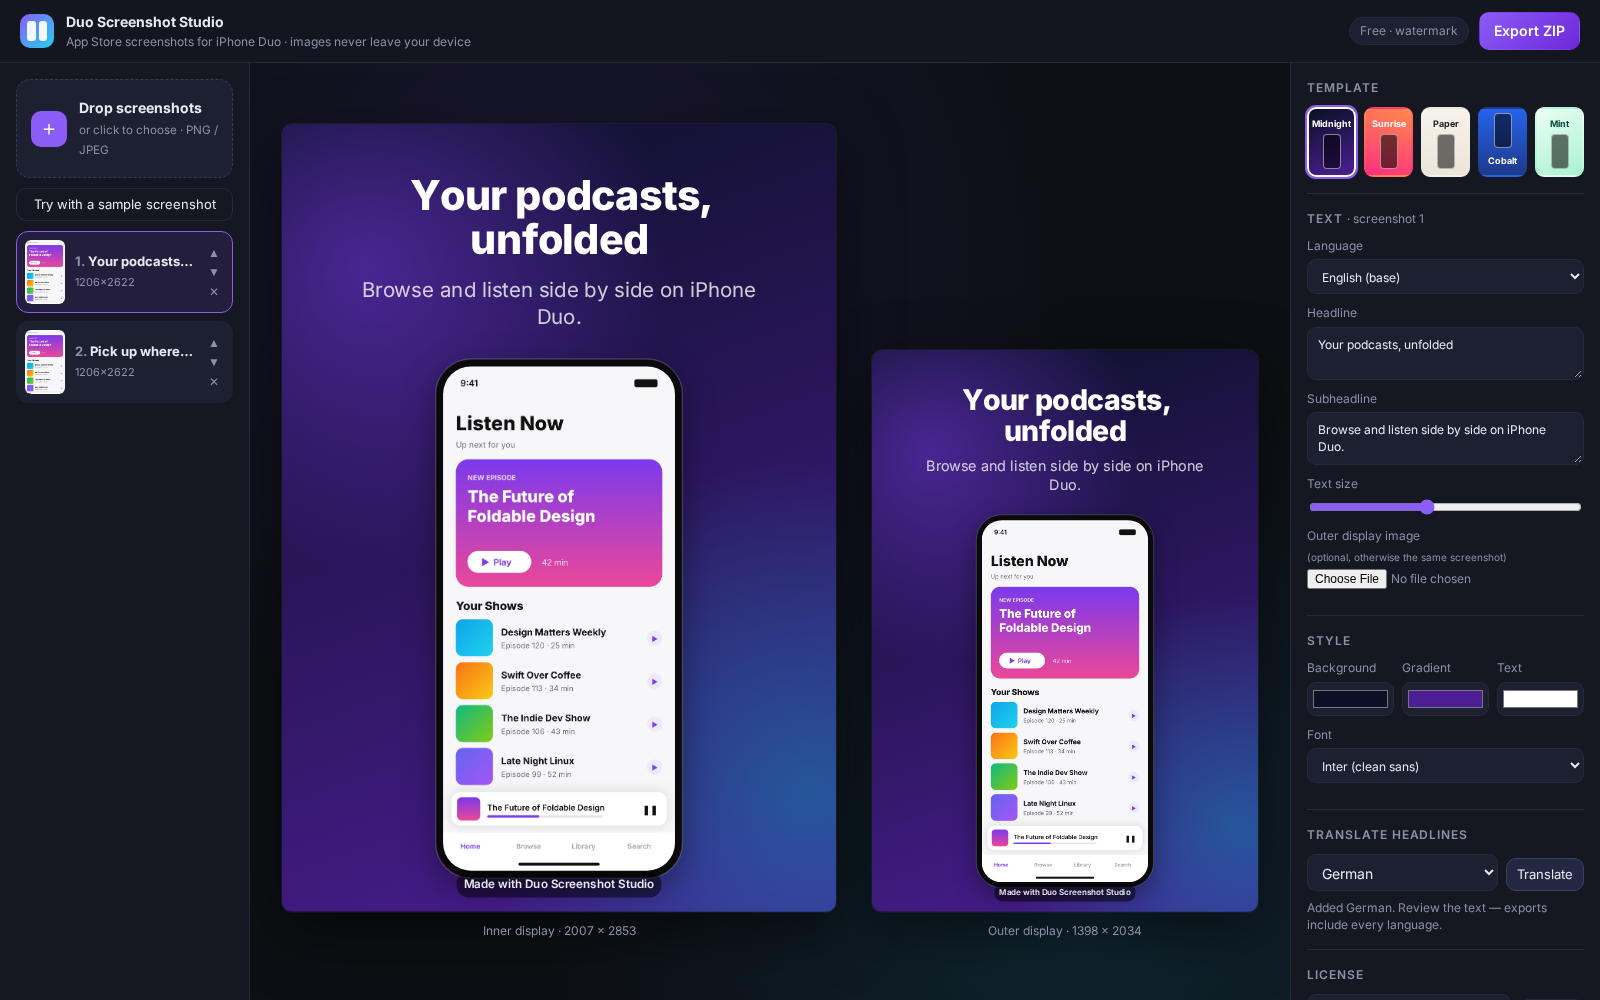
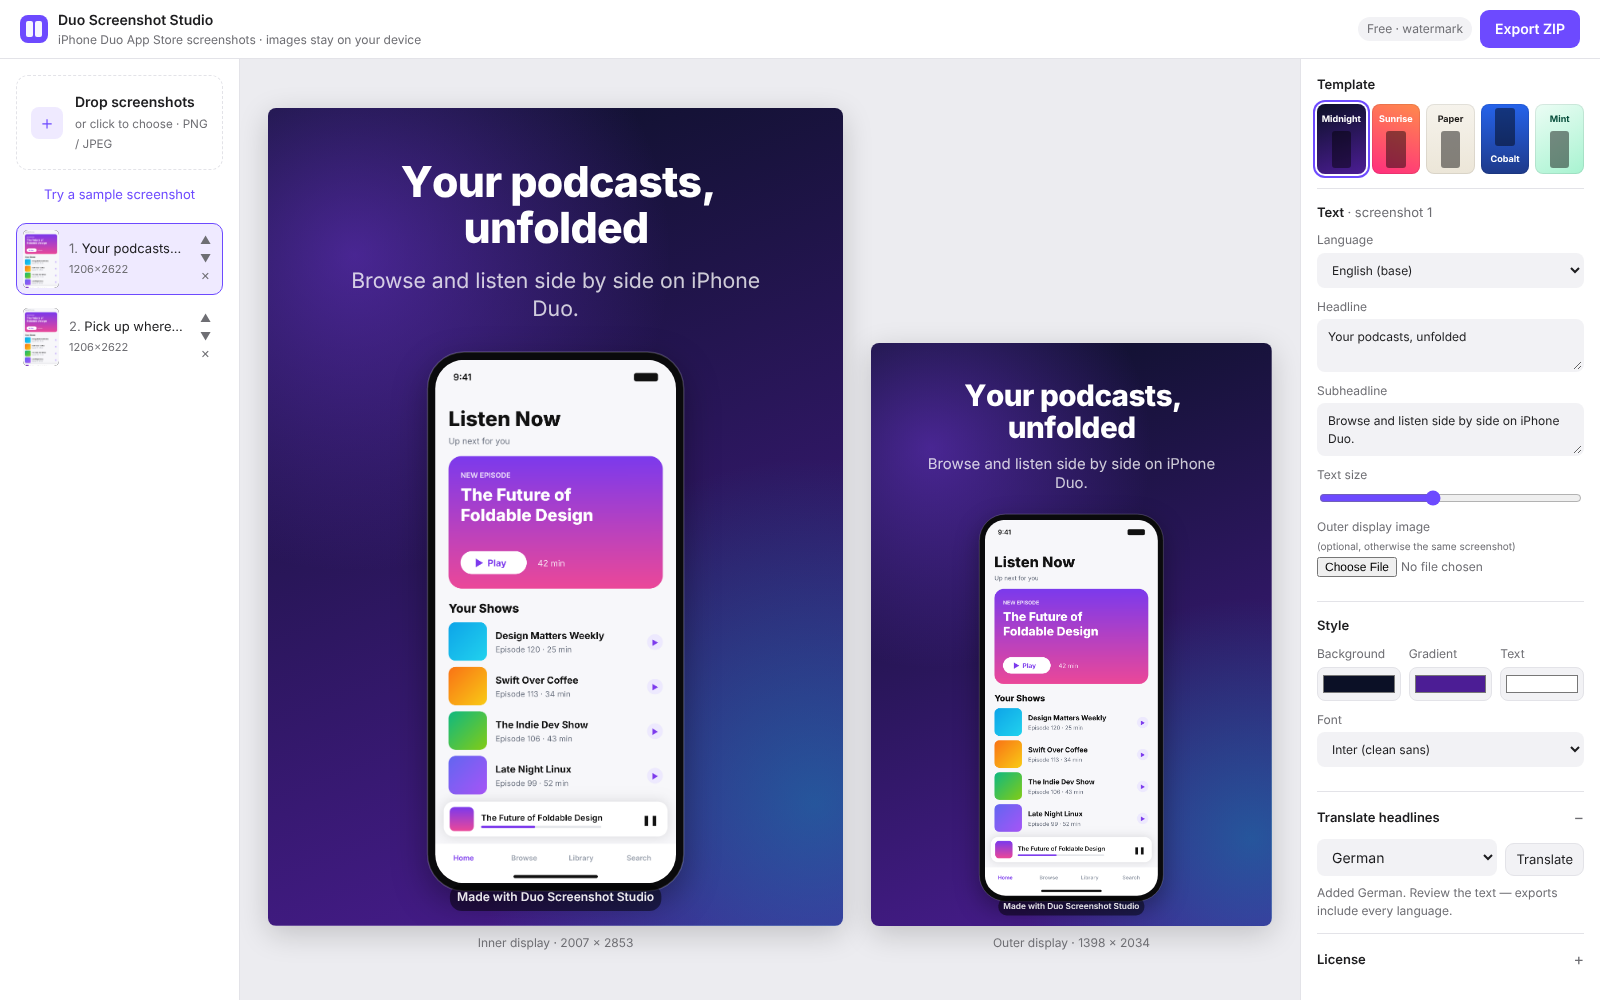
Simplify the editor design and make it work on phones
Neutral light and dark theme, collapsible Translate and License sections,
and a single-column layout under 860px with the preview first and a
horizontal screenshot strip. Preview scaling now accounts for padding
and caps by viewport height on narrow screens.

Claude-Session: https://claude.ai/code/session_01H7PwmSLKKAW7yVJq9DXEp8

diff --git a/src/styles.css b/src/styles.css
@@ -14,88 +14,133 @@
 @font-face { font-family: 'DM Serif Display'; font-weight: 400; font-display: block; src: url(../vendor/fonts/dm-serif-display-latin-ext-400-normal.woff2) format('woff2'); unicode-range: U+0100-02BA, U+02BD-02C5, U+02C7-02CC, U+02CE-02D7, U+02DD-02FF, U+0304, U+0308, U+0329, U+1D00-1DBF, U+1E00-1E9F, U+1EF2-1EFF, U+2020, U+20A0-20AB, U+20AD-20C0, U+2113, U+2C60-2C7F, U+A720-A7FF; }
 
 :root {
-  --bg: #0d0f14; --panel: #151821; --panel-2: #1c2030; --line: #262b3b;
-  --text: #e8eaf2; --muted: #8b91a7; --accent: #8b5cf6; --accent-2: #22d3ee;
-  --radius: 14px;
+  --bg: #f5f5f7; --panel: #ffffff; --field: #f2f2f5; --line: #e3e3e8;
+  --text: #1d1d1f; --muted: #6e6e73; --accent: #6d4aff; --accent-soft: #efeaff; --on-accent: #fff;
+  --stage: #ececf0; --radius: 12px;
+}
+@media (prefers-color-scheme: dark) {
+  :root {
+    --bg: #111113; --panel: #1a1a1d; --field: #242428; --line: #2e2e33;
+    --text: #f2f2f4; --muted: #9a9aa2; --accent: #8b6dff; --accent-soft: #2a2440; --on-accent: #fff;
+    --stage: #0b0b0d;
+  }
 }
 * { box-sizing: border-box; }
 html, body { margin: 0; height: 100%; }
-body { background: var(--bg); color: var(--text); font: 14px/1.45 Inter, -apple-system, system-ui, sans-serif; display: flex; flex-direction: column; }
+body { background: var(--bg); color: var(--text); font: 14px/1.45 Inter, -apple-system, system-ui, sans-serif; display: flex; flex-direction: column; -webkit-text-size-adjust: 100%; }
 button, input, select, textarea { font: inherit; color: inherit; }
+:focus-visible { outline: 2px solid var(--accent); outline-offset: 2px; }
 
-.topbar { display: flex; align-items: center; justify-content: space-between; padding: 12px 20px; border-bottom: 1px solid var(--line); background: rgba(21,24,33,.8); backdrop-filter: blur(10px); }
-.brand { display: flex; gap: 12px; align-items: center; }
+/* Top bar */
+.topbar { display: flex; align-items: center; justify-content: space-between; gap: 12px; padding: 10px 20px; padding-top: max(10px, env(safe-area-inset-top)); border-bottom: 1px solid var(--line); background: var(--panel); }
+.brand { display: flex; gap: 10px; align-items: center; min-width: 0; }
+.brand strong { font-weight: 600; }
 .brand small { display: block; color: var(--muted); font-size: 12px; }
-.logo { width: 34px; height: 34px; border-radius: 10px; background: linear-gradient(135deg, var(--accent), var(--accent-2)); display: grid; grid-template-columns: 1fr 1fr; gap: 3px; padding: 7px; }
-.logo i { background: rgba(255,255,255,.92); border-radius: 3px; }
-.topbar-actions { display: flex; gap: 10px; align-items: center; }
-.badge { font-size: 12px; padding: 4px 10px; border-radius: 999px; background: var(--panel-2); color: var(--muted); border: 1px solid var(--line); }
-.badge.pro { color: #0d0f14; background: linear-gradient(135deg, #a7f3d0, #67e8f9); border-color: transparent; font-weight: 600; }
+.logo { width: 28px; height: 28px; border-radius: 8px; background: var(--accent); display: grid; grid-template-columns: 1fr 1fr; gap: 2px; padding: 6px; flex: none; }
+.logo i { background: rgba(255,255,255,.95); border-radius: 2px; }
+.topbar-actions { display: flex; gap: 8px; align-items: center; flex: none; }
+.badge { font-size: 12px; padding: 3px 9px; border-radius: 999px; background: var(--field); color: var(--muted); }
+.badge.pro { color: var(--accent); background: var(--accent-soft); font-weight: 600; }
 
-.btn { border: 1px solid var(--line); background: var(--panel-2); padding: 8px 14px; border-radius: 10px; cursor: pointer; transition: .15s; white-space: nowrap; }
-.btn:hover:not(:disabled) { border-color: #3a4160; background: #232842; }
+/* Buttons */
+.btn { border: 1px solid var(--line); background: var(--panel); padding: 8px 14px; border-radius: 9px; cursor: pointer; white-space: nowrap; transition: background .15s, border-color .15s; }
+.btn:hover:not(:disabled) { background: var(--field); }
 .btn:disabled { opacity: .45; cursor: not-allowed; }
-.btn.primary { background: linear-gradient(135deg, var(--accent), #6d28d9); border-color: transparent; font-weight: 600; color: #fff; }
-.btn.primary:hover:not(:disabled) { filter: brightness(1.1); }
-.btn.ghost { background: transparent; }
+.btn.primary { background: var(--accent); border-color: transparent; color: var(--on-accent); font-weight: 600; }
+.btn.primary:hover:not(:disabled) { background: var(--accent); filter: brightness(1.08); }
+.btn.ghost { border-color: transparent; color: var(--accent); background: transparent; }
+.btn.ghost:hover:not(:disabled) { background: var(--accent-soft); }
 .btn.small { padding: 6px 10px; font-size: 13px; }
 
-.layout { flex: 1; display: grid; grid-template-columns: 250px 1fr 310px; min-height: 0; }
+/* Layout */
+.layout { flex: 1; display: grid; grid-template-columns: 240px 1fr 300px; min-height: 0; }
 .panel { background: var(--panel); padding: 16px; overflow-y: auto; }
-.panel.left { border-right: 1px solid var(--line); display: flex; flex-direction: column; gap: 10px; }
+.panel.left { border-right: 1px solid var(--line); display: flex; flex-direction: column; gap: 8px; }
 .panel.right { border-left: 1px solid var(--line); }
-.panel section { padding-bottom: 16px; margin-bottom: 16px; border-bottom: 1px solid var(--line); }
-.panel section:last-child { border-bottom: 0; }
-h2 { font-size: 12px; text-transform: uppercase; letter-spacing: .08em; color: var(--muted); margin: 0 0 10px; font-weight: 600; }
-.muted { color: var(--muted); font-weight: 400; text-transform: none; letter-spacing: 0; }
+.panel section, .panel details { padding-bottom: 14px; margin-bottom: 14px; border-bottom: 1px solid var(--line); }
+.panel > :last-child { border-bottom: 0; margin-bottom: 0; }
+h2, summary { font-size: 13px; font-weight: 600; margin: 0 0 10px; }
+summary { cursor: pointer; list-style: none; display: flex; justify-content: space-between; align-items: center; margin: 0; }
+summary::-webkit-details-marker { display: none; }
+summary::after { content: '+'; color: var(--muted); font-weight: 400; font-size: 16px; }
+details[open] summary { margin-bottom: 10px; }
+details[open] summary::after { content: '−'; }
+.muted { color: var(--muted); font-weight: 400; }
 .hint { color: var(--muted); font-size: 12px; margin: 8px 0 0; }
-.hint a { color: var(--accent-2); }
+.hint a { color: var(--accent); }
 
-.dropzone { border: 1.5px dashed #343a52; border-radius: var(--radius); padding: 18px 14px; display: flex; gap: 12px; align-items: center; cursor: pointer; background: var(--panel-2); transition: .15s; }
-.dropzone:hover, .dropzone.over { border-color: var(--accent); background: #211d3a; }
-.dz-icon { width: 36px; height: 36px; border-radius: 10px; display: grid; place-items: center; background: var(--accent); color: #fff; font-size: 20px; flex: none; }
+/* Uploads */
+.dropzone { border: 1.5px dashed var(--line); border-radius: var(--radius); padding: 16px 14px; display: flex; gap: 12px; align-items: center; cursor: pointer; transition: .15s; }
+.dropzone:hover, .dropzone.over { border-color: var(--accent); background: var(--accent-soft); }
+.dz-icon { width: 32px; height: 32px; border-radius: 8px; display: grid; place-items: center; background: var(--accent-soft); color: var(--accent); font-size: 18px; flex: none; }
+.dropzone strong { font-weight: 600; }
 .dropzone small { color: var(--muted); }
 
-.shot-list { list-style: none; margin: 0; padding: 0; display: flex; flex-direction: column; gap: 8px; counter-reset: shot; }
-.shot-list li { display: flex; gap: 10px; align-items: center; padding: 8px; border-radius: 12px; border: 1px solid transparent; cursor: pointer; background: var(--panel-2); counter-increment: shot; position: relative; }
-.shot-list li.active { border-color: var(--accent); background: #221e3b; }
-.shot-list img { width: 40px; height: 64px; object-fit: cover; border-radius: 6px; background: #000; flex: none; }
+.shot-list { list-style: none; margin: 4px 0 0; padding: 0; display: flex; flex-direction: column; gap: 6px; counter-reset: shot; }
+.shot-list li { display: flex; gap: 10px; align-items: center; padding: 6px; border-radius: 10px; border: 1px solid transparent; cursor: pointer; counter-increment: shot; }
+.shot-list li:hover { background: var(--field); }
+.shot-list li.active { border-color: var(--accent); background: var(--accent-soft); }
+.shot-list img { width: 36px; height: 58px; object-fit: cover; border-radius: 5px; background: #000; flex: none; }
 .shot-list .meta { flex: 1; min-width: 0; }
-.shot-list .meta b { display: block; font-size: 13px; white-space: nowrap; overflow: hidden; text-overflow: ellipsis; }
+.shot-list .meta b { display: block; font-size: 13px; font-weight: 500; white-space: nowrap; overflow: hidden; text-overflow: ellipsis; }
 .shot-list .meta small { color: var(--muted); font-size: 11px; }
 .shot-list .meta b::before { content: counter(shot) ". "; color: var(--muted); }
-.shot-list .tools { display: flex; flex-direction: column; gap: 2px; }
-.shot-list .tools button { border: 0; background: transparent; color: var(--muted); cursor: pointer; padding: 0 4px; font-size: 12px; }
-.shot-list .tools button:hover { color: var(--text); }
+.shot-list .tools { display: flex; flex-direction: column; }
+.shot-list .tools button { border: 0; background: transparent; color: var(--muted); cursor: pointer; padding: 1px 5px; font-size: 11px; border-radius: 5px; }
+.shot-list .tools button:hover { color: var(--text); background: var(--line); }
 
-.stage-wrap { position: relative; overflow: auto; display: flex; align-items: center; justify-content: center; padding: 28px;
-  background: radial-gradient(circle at 30% 20%, #1a1631 0, transparent 50%), radial-gradient(circle at 80% 90%, #0f2530 0, transparent 45%), var(--bg); }
-.empty { max-width: 460px; text-align: center; color: var(--muted); }
-.empty h1 { color: var(--text); font-size: 28px; letter-spacing: -.02em; margin: 0 0 10px; }
-.previews { display: flex; gap: 36px; align-items: flex-end; }
+/* Stage */
+.stage-wrap { position: relative; overflow: auto; display: flex; align-items: center; justify-content: center; padding: 28px; background: var(--stage); }
+.empty { max-width: 420px; text-align: center; color: var(--muted); }
+.empty h1 { color: var(--text); font-size: 24px; font-weight: 700; letter-spacing: -.02em; margin: 0 0 8px; }
+.previews { display: flex; gap: 28px; align-items: flex-end; }
 .previews[hidden] { display: none; }
-.previews figure { margin: 0; display: flex; flex-direction: column; align-items: center; gap: 10px; }
-.stage { border-radius: 10px; overflow: hidden; box-shadow: 0 20px 60px rgba(0,0,0,.5), 0 0 0 1px rgba(255,255,255,.06); }
-figcaption { color: var(--muted); font-size: 12px; }
+.previews figure { margin: 0; display: flex; flex-direction: column; align-items: center; gap: 8px; }
+.stage { border-radius: 8px; overflow: hidden; box-shadow: 0 8px 30px rgba(0,0,0,.18); }
+figcaption { color: var(--muted); font-size: 12px; text-align: center; white-space: nowrap; }
 
-.template-grid { display: grid; grid-template-columns: repeat(5, 1fr); gap: 8px; }
-.template-grid button { aspect-ratio: .7; border-radius: 9px; border: 2px solid transparent; cursor: pointer; position: relative; padding: 0; overflow: hidden; }
-.template-grid button.active { border-color: #fff; box-shadow: 0 0 0 2px var(--accent); }
-.template-grid button::after { content: ''; position: absolute; left: 30%; right: 30%; top: 38%; bottom: 8%; border-radius: 4px; background: rgba(0,0,0,.55); border: 1.5px solid rgba(255,255,255,.5); }
+/* Controls */
+.template-grid { display: grid; grid-template-columns: repeat(5, 1fr); gap: 6px; }
+.template-grid button { aspect-ratio: .7; border-radius: 8px; border: 0; cursor: pointer; position: relative; padding: 0; overflow: hidden; box-shadow: inset 0 0 0 1px rgba(0,0,0,.08); }
+.template-grid button.active { box-shadow: 0 0 0 2px var(--panel), 0 0 0 4px var(--accent); }
+.template-grid button::after { content: ''; position: absolute; left: 30%; right: 30%; top: 38%; bottom: 8%; border-radius: 3px; background: rgba(0,0,0,.45); }
 .template-grid button span { position: absolute; left: 0; right: 0; top: 12%; font-size: 9px; font-weight: 700; text-align: center; }
 .template-grid button.bottom::after { top: 6%; bottom: 40%; }
 .template-grid button.bottom span { top: auto; bottom: 12%; }
 
-.field { display: flex; flex-direction: column; gap: 5px; margin-bottom: 10px; font-size: 12px; color: var(--muted); }
-.field textarea, .field select, .row input[type=text], .row select { background: var(--panel-2); border: 1px solid var(--line); border-radius: 9px; padding: 8px 10px; color: var(--text); resize: vertical; width: 100%; }
-.field textarea:focus, .row input:focus { outline: none; border-color: var(--accent); }
+.field { display: flex; flex-direction: column; gap: 4px; margin-bottom: 10px; font-size: 12px; color: var(--muted); }
+.field textarea, .field select, .row input[type=text], .row select { background: var(--field); border: 1px solid transparent; border-radius: 8px; padding: 8px 10px; color: var(--text); resize: vertical; width: 100%; }
+.field textarea:focus, .field select:focus, .row input:focus, .row select:focus { outline: none; border-color: var(--accent); }
 .field input[type=range] { accent-color: var(--accent); }
-.field input[type=file] { font-size: 12px; color: var(--muted); }
+.field input[type=file] { font-size: 12px; color: var(--muted); max-width: 100%; }
 .row { display: flex; gap: 8px; align-items: flex-end; }
-.field.color { flex: 1; }
-.field.color input { width: 100%; height: 34px; border: 1px solid var(--line); border-radius: 9px; background: var(--panel-2); padding: 3px; cursor: pointer; }
+.field.color { flex: 1; min-width: 0; }
+.field.color input { width: 100%; height: 34px; border: 1px solid var(--line); border-radius: 8px; background: var(--field); padding: 3px; cursor: pointer; }
 
-.toast { position: fixed; bottom: 22px; left: 50%; transform: translateX(-50%); background: #23283d; border: 1px solid var(--line); padding: 10px 16px; border-radius: 12px; box-shadow: 0 10px 30px rgba(0,0,0,.4); z-index: 10; max-width: 80vw; }
-.progress { height: 4px; background: var(--line); border-radius: 4px; margin-top: 8px; overflow: hidden; }
-.progress i { display: block; height: 100%; background: linear-gradient(90deg, var(--accent), var(--accent-2)); width: 0; transition: width .2s; }
-@media (max-width: 1100px) { .layout { grid-template-columns: 220px 1fr 280px; } .previews { flex-direction: column; align-items: center; } }
+.toast { position: fixed; bottom: max(20px, env(safe-area-inset-bottom)); left: 50%; transform: translateX(-50%); background: var(--text); color: var(--bg); padding: 10px 16px; border-radius: 10px; box-shadow: 0 10px 30px rgba(0,0,0,.25); z-index: 10; width: max-content; max-width: calc(100vw - 32px); }
+.progress { height: 4px; background: rgba(127,127,127,.35); border-radius: 4px; margin-top: 8px; overflow: hidden; }
+.progress i { display: block; height: 100%; background: var(--accent); width: 0; transition: width .2s; }
+
+@media (max-width: 1100px) { .layout { grid-template-columns: 210px 1fr 270px; } }
+
+/* Phones and narrow windows: one scrolling column, preview first */
+@media (max-width: 860px) {
+  html, body { height: auto; }
+  .topbar { position: sticky; top: 0; z-index: 5; padding-left: 16px; padding-right: 16px; }
+  .brand small, .badge { display: none; }
+  .layout { display: flex; flex-direction: column; }
+  .panel { overflow: visible; border: 0 !important; }
+  .stage-wrap { order: 1; padding: 20px 16px; overflow: visible; }
+  .panel.left { order: 2; border-bottom: 1px solid var(--line) !important; }
+  .panel.right { order: 3; padding-bottom: max(24px, env(safe-area-inset-bottom)); }
+  .previews { gap: 12px; }
+  figcaption { font-size: 11px; }
+  .empty h1 { font-size: 20px; }
+  .shot-list { flex-direction: row; overflow-x: auto; padding-bottom: 4px; scroll-snap-type: x proximity; }
+  .shot-list li { flex: none; width: 190px; scroll-snap-align: start; border-color: var(--line); }
+  .shot-list .tools button { padding: 4px 8px; font-size: 13px; }
+  .btn { min-height: 40px; }
+  .btn.small { min-height: 38px; }
+  .field textarea, .field select, .row input[type=text], .row select { font-size: 16px; } /* avoids iOS zoom on focus */
+  .template-grid { grid-template-columns: repeat(5, minmax(0, 1fr)); max-width: 420px; }
+}

diff --git a/index.html b/index.html
@@ -2,7 +2,8 @@
 <html lang="en">
 <head>
   <meta charset="utf-8">
-  <meta name="viewport" content="width=device-width, initial-scale=1">
+  <meta name="viewport" content="width=device-width, initial-scale=1, viewport-fit=cover">
+  <meta name="color-scheme" content="light dark">
   <title>Duo Screenshot Studio — App Store screenshots for iPhone Duo</title>
   <meta name="description" content="Turn your app screenshots into App Store-ready iPhone Duo screenshots for the inner and outer display. Runs in your browser; images never leave your device.">
   <link rel="stylesheet" href="src/styles.css">
@@ -13,7 +14,7 @@
       <span class="logo" aria-hidden="true"><i></i><i></i></span>
       <div>
         <strong>Duo Screenshot Studio</strong>
-        <small>App Store screenshots for iPhone Duo · images never leave your device</small>
+        <small>iPhone Duo App Store screenshots · images stay on your device</small>
       </div>
     </div>
     <div class="topbar-actions">
@@ -29,7 +30,7 @@
         <span class="dz-icon">＋</span>
         <span><strong>Drop screenshots</strong><br><small>or click to choose · PNG / JPEG</small></span>
       </label>
-      <button id="sampleBtn" class="btn ghost small">Try with a sample screenshot</button>
+      <button id="sampleBtn" class="btn ghost small">Try a sample screenshot</button>
       <ol id="shotList" class="shot-list" aria-label="Screenshots"></ol>
     </aside>
 
@@ -85,23 +86,23 @@
         <label class="field">Font <select id="fontSelect"></select></label>
       </section>
 
-      <section>
-        <h2>Translate headlines</h2>
+      <details id="translateDetails">
+        <summary>Translate headlines</summary>
         <div class="row">
           <select id="translateTarget"></select>
           <button id="translateBtn" class="btn small">Translate</button>
         </div>
         <p id="translateStatus" class="hint"></p>
-      </section>
+      </details>
 
-      <section>
-        <h2>License</h2>
+      <details id="licenseDetails">
+        <summary>License</summary>
         <div class="row">
           <input id="licenseKey" type="text" placeholder="Lemon Squeezy license key" autocomplete="off" spellcheck="false">
           <button id="licenseBtn" class="btn small">Unlock</button>
         </div>
         <p id="licenseStatus" class="hint">Free exports include a small watermark. <a id="buyLink" href="#">Get a license</a> — €19 per app or €49 lifetime.</p>
-      </section>
+      </details>
     </aside>
   </main>
 

diff --git a/src/app.js b/src/app.js
@@ -119,8 +119,12 @@ function ensurePreviewStages() {
 
 function previewScale() {
   const wrap = document.querySelector('.stage-wrap');
-  const availH = Math.max(320, wrap.clientHeight - 90);
-  const availW = Math.max(320, wrap.clientWidth - 100);
+  const cs = getComputedStyle(wrap);
+  const gap = parseFloat(getComputedStyle($('previews')).columnGap) || 0;
+  const availW = Math.max(200, wrap.clientWidth - parseFloat(cs.paddingLeft) - parseFloat(cs.paddingRight) - gap);
+  // on narrow screens the stage grows with its content, so cap by the viewport instead
+  const narrow = matchMedia('(max-width: 860px)').matches;
+  const availH = Math.max(200, narrow ? window.innerHeight * 0.55 : wrap.clientHeight - parseFloat(cs.paddingTop) - parseFloat(cs.paddingBottom) - 40);
   const inner = sizeOf('inner'), outer = sizeOf('outer');
   // both previews share the same pixel scale so their relative size is honest
   return Math.min(availH / inner.height, availW / (inner.width + outer.width));
